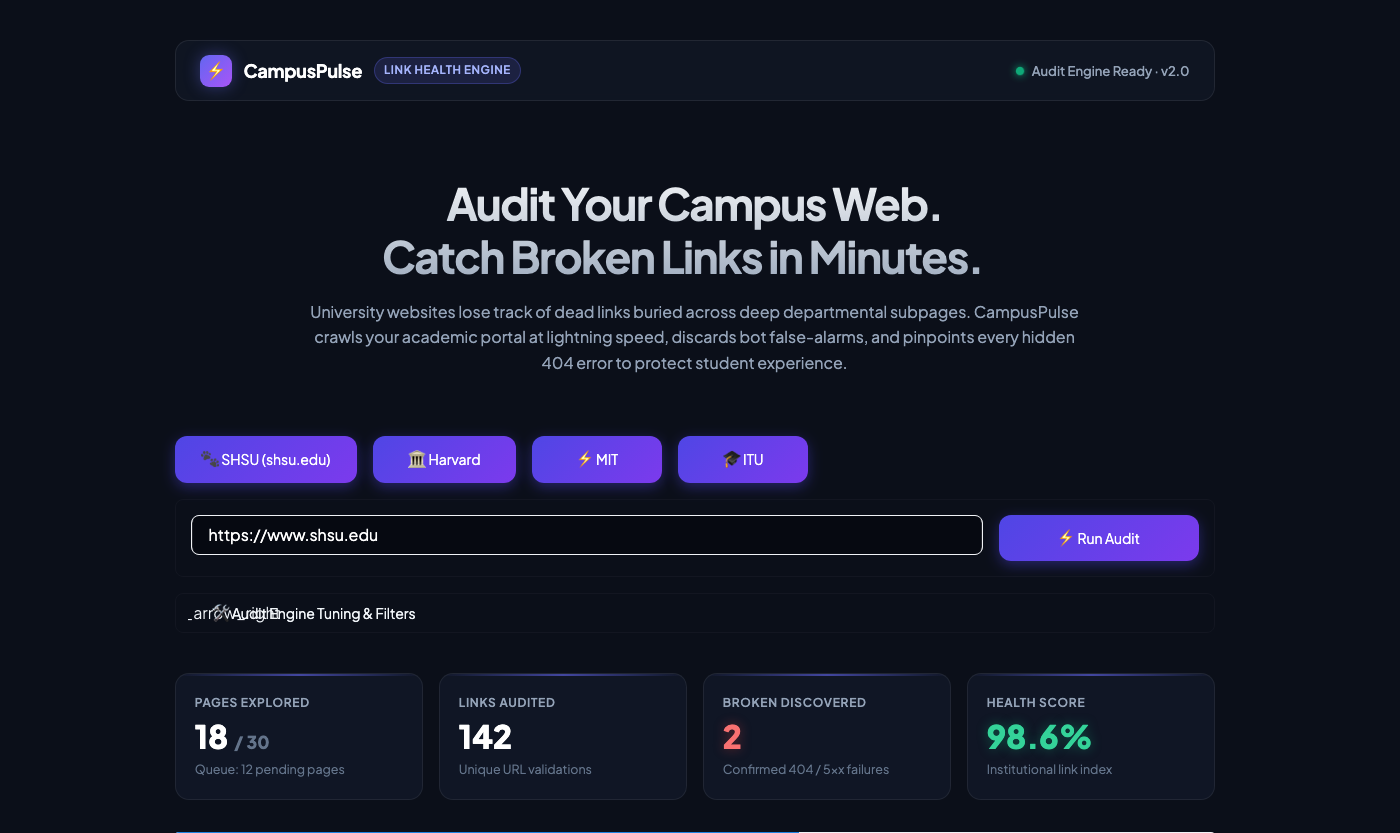
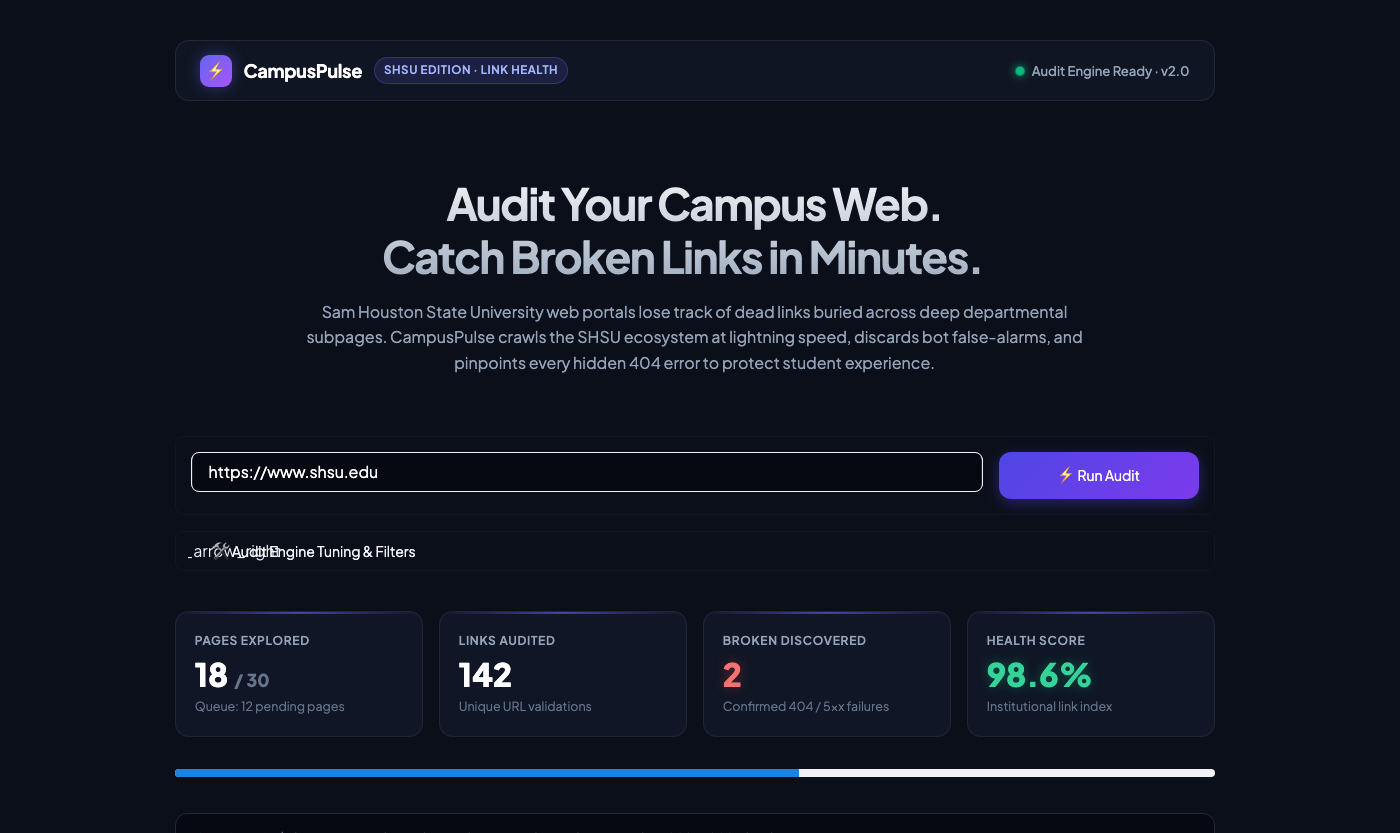
refactor: focus exclusively on Sam Houston State University, remove foreign university presets, and update all app screenshots

diff --git a/app.py b/app.py
@@ -272,7 +272,7 @@ st.markdown(
         <div class="brand-group">
             <div class="brand-logo">⚡</div>
             <div class="brand-name">CampusPulse</div>
-            <div class="brand-pill">Link Health Engine</div>
+            <div class="brand-pill">SHSU Edition · Link Health</div>
         </div>
         <div class="nav-status">
             <div class="status-dot"></div>
@@ -289,8 +289,8 @@ st.markdown(
     <div class="hero-container">
         <h1 class="hero-headline">Audit Your Campus Web.<br>Catch Broken Links in Minutes.</h1>
         <p class="hero-sub">
-            University websites lose track of dead links buried across deep departmental subpages.
-            CampusPulse crawls your academic portal at lightning speed, discards bot false-alarms,
+            Sam Houston State University web portals lose track of dead links buried across deep departmental subpages.
+            CampusPulse crawls the SHSU ecosystem at lightning speed, discards bot false-alarms,
             and pinpoints every hidden 404 error to protect student experience.
         </p>
     </div>
@@ -298,25 +298,9 @@ st.markdown(
     unsafe_allow_html=True
 )
 
-# 3. Main Search Form & Presets
-# Initialize session state for target url if not present
+# 3. Main Search Form
 if "input_url" not in st.session_state:
     st.session_state.input_url = "https://www.shsu.edu"
-
-# Quick preset selector pills
-chip_col1, chip_col2, chip_col3, chip_col4, chip_space = st.columns([1.5, 1.2, 1.1, 1.1, 3.1])
-with chip_col1:
-    if st.button("🐾 SHSU (shsu.edu)", use_container_width=True):
-        st.session_state.input_url = "https://www.shsu.edu"
-with chip_col2:
-    if st.button("🏛 Harvard", use_container_width=True):
-        st.session_state.input_url = "https://www.harvard.edu"
-with chip_col3:
-    if st.button("⚡ MIT", use_container_width=True):
-        st.session_state.input_url = "https://www.mit.edu"
-with chip_col4:
-    if st.button("🎓 ITU", use_container_width=True):
-        st.session_state.input_url = "https://www.itu.edu.tr"
 
 with st.form("audit_form", clear_on_submit=False):
     search_col, action_col = st.columns([5, 1.3])
@@ -324,7 +308,7 @@ with st.form("audit_form", clear_on_submit=False):
         target_url = st.text_input(
             "Target University URL",
             value=st.session_state.input_url,
-            placeholder="https://www.shsu.edu or https://www.your-university.edu",
+            placeholder="https://www.shsu.edu",
             label_visibility="collapsed"
         )
     with action_col:
